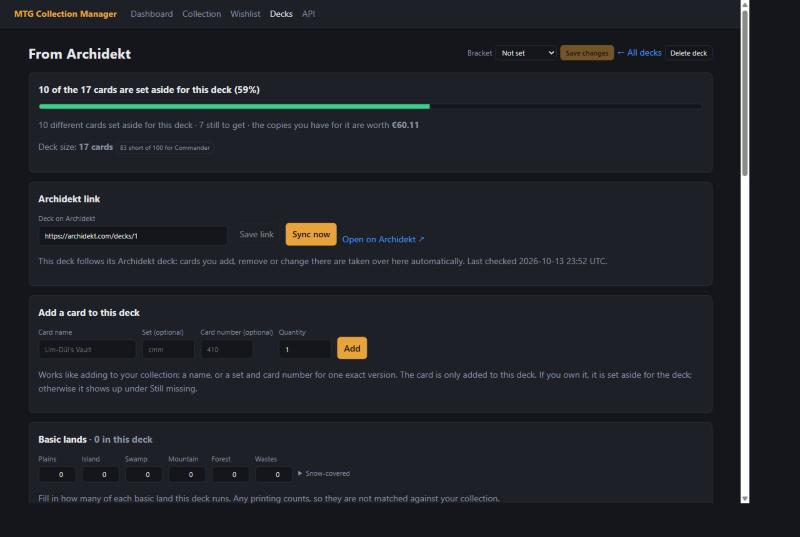
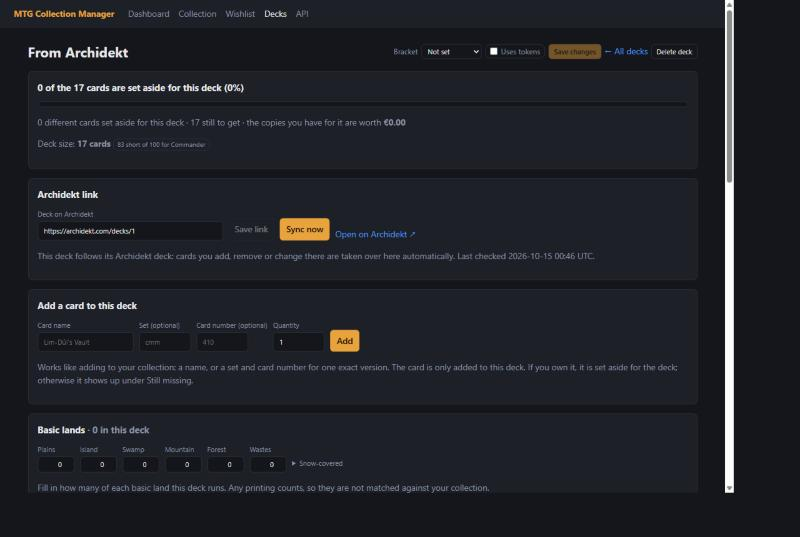
Decks: mark the decks that use tokens
- A "Uses tokens" box on the deck page, saved with the other changes. A
  deck whose list has tokens is marked by itself until you change it.
- The saved decks show a "tokens" badge and can be filtered on it.
- API: PUT /api/decks/{id}/tokens; the deck list says whether a deck uses
  tokens and how many its list has.
- README screenshots updated.

diff --git a/app/templates/deck.html b/app/templates/deck.html
@@ -59,6 +59,9 @@
         {% endfor %}
       </select>
     </label>
+    <input type="hidden" name="tokens_shown" value="1" form="deck-form">
+    <label class="token-toggle {{ 'on' if uses_tokens }}" title="Tick when this deck makes tokens, so you know to bring them">
+      <input type="checkbox" name="uses_tokens" form="deck-form" {{ 'checked' if uses_tokens }}>Uses tokens</label>
     <button form="deck-form" class="deck-save small">Save changes</button>
     <a href="/deck">← All decks</a>
     <form class="inline" method="post" action="/decks/{{ deck.id }}/delete" data-confirm="Click again to delete">
@@ -85,6 +88,7 @@
       {% if summaries | selectattr('deck.bracket', 'none') | list %}<option value="none">No bracket</option>{% endif %}
     </select>
     <label class="check muted"><input id="deck-complete-filter" type="checkbox">&nbsp;Only complete decks</label>
+    <label class="check muted"><input id="deck-tokens-filter" type="checkbox">&nbsp;Only decks with tokens</label>
     <span id="deck-filter-count" class="muted"></span>
   </div>
   <div class="toolbar search-bar color-bar">
@@ -108,10 +112,12 @@
         data-order="{{ loop.index }}" data-name="{{ s.deck.name }}" data-bracket-number="{{ s.deck.bracket or '' }}"
         data-cards="{{ s.total_cards }}" data-percent="{{ s.percent }}" data-value="{{ s.value }}" data-missing="{{ s.needed - s.usable }}"
         data-colors="{{ '?' if s.deck.colors is none else s.deck.colors }}"
-        data-card-names="{{ (card_names | default({})).get(s.deck.id, []) | join('|') }}">
+        data-card-names="{{ (card_names | default({})).get(s.deck.id, []) | join('|') }}"
+        data-tokens="{{ 1 if s.uses_tokens else 0 }}">
       <td><a href="/decks/{{ s.deck.id }}">{{ s.deck.name }}</a>
         {{ pips(s.deck.colors) }}
-        <div class="muted small deck-hit" hidden></div>{% if s.deck.archidekt_id %} <span class="badge linked" title="Follows its deck on Archidekt">↻ Archidekt</span>{% endif %}</td>
+        <div class="muted small deck-hit" hidden></div>{% if s.deck.archidekt_id %} <span class="badge linked" title="Follows its deck on Archidekt">↻ Archidekt</span>{% endif %}
+        {% if s.uses_tokens %}<span class="badge tokens" title="This deck uses tokens{% if s.tokens %}: {{ s.tokens }} in its deck list{% endif %}">● tokens</span>{% endif %}</td>
       <td>{% if s.bracket_name %}<span class="badge bracket">{{ s.deck.bracket }} · {{ s.bracket_name }}</span>{% else %}<span class="muted">–</span>{% endif %}</td>
       <td class="num" title="Cards you have / cards in the deck, basic lands included">{{ s.total_owned }} / {{ s.total_cards }}</td>
       <td style="width: 35%"><div class="progress slim"><div style="width: {{ s.percent }}%"></div></div></td>
@@ -421,6 +427,7 @@
   // Filter the list of saved decks by bracket; the choice is remembered in this browser.
   const bracketFilter = document.getElementById("deck-bracket-filter");
   const completeFilter = document.getElementById("deck-complete-filter");
+  const tokensFilter = document.getElementById("deck-tokens-filter");
   const deckListRows = [...document.querySelectorAll("#deck-list tr[data-bracket]")];
 
   const deckColours = colourFilter("deck", "deck-colors", "exact", () => filterDecks());
@@ -450,6 +457,7 @@
         hit.match &&
         (!bracketFilter.value || row.dataset.bracket === bracketFilter.value) &&
         (!completeFilter.checked || row.dataset.complete === "1") &&
+        (!tokensFilter.checked || row.dataset.tokens === "1") &&
         deckColours.matches(row.dataset.colors);
       row.hidden = !match;
       if (match) shown += 1;
@@ -463,7 +471,7 @@
     if (deckSearch.value.trim()) url.searchParams.set("q", deckSearch.value.trim());
     else url.searchParams.delete("q");
     history.replaceState(null, "", url);
-    const filtered = bracketFilter.value || completeFilter.checked || deckColours.active() || words.length > 0;
+    const filtered = bracketFilter.value || completeFilter.checked || tokensFilter.checked || deckColours.active() || words.length > 0;
     document.getElementById("deck-filter-count").textContent = filtered ? `${shown} of ${deckListRows.length} decks` : "";
     document.getElementById("deck-filter-empty").hidden = shown > 0;
     document.getElementById("deck-list").hidden = shown === 0;
@@ -476,6 +484,7 @@
   } catch (error) {}
   bracketFilter.addEventListener("change", filterDecks);
   completeFilter.addEventListener("change", filterDecks);
+  tokensFilter.addEventListener("change", filterDecks);
   deckSearch.addEventListener("input", filterDecks);
   filterDecks();
 </script>
@@ -566,9 +575,12 @@
   const deckFields = [...document.querySelectorAll('[form="deck-form"][name]:not(button)')];
   // What the server sent, not what the field shows now: a browser may restore edited values on reload.
   const storedValue = (field) =>
-    field.tagName === "SELECT"
+    field.type === "checkbox"
+      ? String(field.defaultChecked)
+      : field.tagName === "SELECT"
       ? ([...field.options].find((option) => option.defaultSelected) ?? field.options[0]).value
       : field.defaultValue;
+  const currentValue = (field) => (field.type === "checkbox" ? String(field.checked) : field.value);
   const stored = new Map(deckFields.map((field) => [field, storedValue(field)]));
   const saveButtons = document.querySelectorAll('button[form="deck-form"]:not([name])');
   const unsavedBar = document.getElementById("unsaved-bar");
@@ -576,8 +588,9 @@
   function markUnsaved() {
     let dirty = false;
     for (const field of deckFields) {
-      const changed = field.value !== stored.get(field);
-      field.classList.toggle("changed", changed);
+      const changed = currentValue(field) !== stored.get(field);
+      (field.type === "checkbox" ? field.closest("label") : field).classList.toggle("changed", changed);
+      if (field.type === "checkbox") field.closest("label").classList.toggle("on", field.checked);
       dirty = dirty || changed;
     }
     for (const button of saveButtons) button.disabled = !dirty;

diff --git a/app/static/style.css b/app/static/style.css
@@ -203,6 +203,12 @@ button.link:disabled { color: var(--muted); cursor: default; text-decoration: no
 [hidden] { display: none !important; }
 
 /* Collection: foil checkbox next to the card name */
+.token-toggle { display: inline-flex; align-items: center; gap: 4px; padding: 2px 8px; border: 1px solid var(--border);
+  border-radius: 10px; font-size: 12px; color: var(--muted); cursor: pointer; }
+.token-toggle input { margin: 0; }
+.token-toggle.on { border-color: var(--accent); color: var(--accent); }
+.token-toggle.changed { box-shadow: 0 0 0 2px var(--want); }
+.badge.tokens { border-color: var(--accent); color: var(--accent); }
 .foil-toggle { display: inline-flex; align-items: center; gap: 3px; margin-left: 6px; padding: 0 7px 0 4px; font-size: 11px;
   border: 1px solid var(--border); border-radius: 10px; color: var(--muted); cursor: pointer; white-space: nowrap; }
 .foil-toggle.on { border-color: var(--accent); color: var(--accent); }

diff --git a/app/services/decks.py b/app/services/decks.py
@@ -159,6 +159,12 @@ class DeckSummary:
     usable: int
     value: float = 0.0  # what the copies in this deck are worth
     basic_lands: int = 0
+    tokens: int = 0  # tokens in its deck list (not counted as cards)
+
+    @property
+    def uses_tokens(self) -> bool:
+        """As you set it on the deck, or else: its deck list has tokens."""
+        return self.deck.uses_tokens if self.deck.uses_tokens is not None else self.tokens > 0
 
     @property
     def bracket_name(self) -> str | None:
@@ -1077,6 +1083,13 @@ def move_basic_lands_out(session: Session, deck: Deck) -> int:
     return moved
 
 
+def set_uses_tokens(session: Session, deck: Deck, uses_tokens: bool | None) -> None:
+    """Mark a deck as one that uses tokens (or not); None goes back to what its deck list says."""
+    deck.uses_tokens = uses_tokens
+    session.add(deck)
+    session.flush()
+
+
 def set_bracket(session: Session, deck: Deck, bracket: int | None) -> None:
     if bracket is not None and bracket not in BRACKETS:
         raise DeckError("A bracket is a number from 1 to 5")
@@ -1121,6 +1134,9 @@ def deck_summaries(session: Session) -> list[DeckSummary]:
     basics: dict[int, int] = {}
     for row in session.exec(select(DeckBasicLand)):
         basics[row.deck_id] = basics.get(row.deck_id, 0) + row.quantity
+    tokens: dict[int, int] = {}
+    for row in session.exec(select(DeckSkipped).where(DeckSkipped.kind == TOKEN)):
+        tokens[row.deck_id] = tokens.get(row.deck_id, 0) + row.quantity
     summaries = []
     for deck in pool.decks:
         rows = pool.rows(deck_id=deck.id)
@@ -1131,6 +1147,7 @@ def deck_summaries(session: Session) -> list[DeckSummary]:
                 usable=sum(row.usable for row in rows),
                 value=round(sum(row.value for row in rows), 2),
                 basic_lands=basics.get(deck.id, 0),
+                tokens=tokens.get(deck.id, 0),
             )
         )
     return summaries

diff --git a/tests/test_api.py b/tests/test_api.py
@@ -527,3 +527,30 @@ def test_collection_groups_versions_and_lists_spare_copies(client):
     spare = sorted((i["card"]["name"], i["card"]["set_code"], i["spare"]) for i in items)
     # The deck uses one Sol Ring (the cheapest) and Fire // Ice; everything else is spare.
     assert spare == [("Lim-Dûl's Vault", "all", 1), ("Sol Ring", "cmm", 2), ("Sol Ring", "lea", 1)]
+
+
+def test_mark_a_deck_as_using_tokens(client):
+    with_tokens = client.post("/api/decks", json={"name": "Rabbits", "decklist": "1 Sol Ring\n3 Treasure Token"}).json()
+    plain = client.post("/api/decks", json={"name": "Plain", "decklist": "1 Sol Ring"}).json()
+
+    def tokens():
+        return {d["name"]: (d["uses_tokens"], d["token_count"]) for d in client.get("/api/decks").json()}
+
+    # A deck whose list has tokens uses them, until you say otherwise.
+    assert tokens() == {"Rabbits": (True, 3), "Plain": (False, 0)}
+    client.put(f"/api/decks/{plain['id']}/tokens", json={"uses_tokens": True})
+    client.put(f"/api/decks/{with_tokens['id']}/tokens", json={"uses_tokens": False})
+    assert tokens() == {"Rabbits": (False, 3), "Plain": (True, 0)}
+    client.put(f"/api/decks/{with_tokens['id']}/tokens", json={"uses_tokens": None})
+    assert tokens()["Rabbits"] == (True, 3)
+
+    # The "Uses tokens" box on the deck page is saved with the other changes.
+    client.post(f"/decks/{plain['id']}/save", data={"tokens_shown": "1"})  # unticked
+    assert tokens()["Plain"] == (False, 0)
+    client.post(f"/decks/{plain['id']}/save", data={"tokens_shown": "1", "uses_tokens": "on"})
+    assert tokens()["Plain"] == (True, 0)
+    page = client.get(f"/decks/{plain['id']}").text
+    assert 'name="uses_tokens" form="deck-form" checked' in page
+
+    overview = client.get("/deck").text
+    assert overview.count("● tokens</span>") == 2 and 'id="deck-tokens-filter"' in overview

diff --git a/app/routers/pages.py b/app/routers/pages.py
@@ -466,7 +466,8 @@ def saved_deck_page(deck_id: int, request: Request, session: Session = Depends(g
     deck = session.get(Deck, deck_id)
     if deck is None:
         raise HTTPException(status_code=404, detail="Deck not found")
-    return render(request, "deck.html", rows=decks.saved_deck_rows(session, deck), deck=deck,
+    summary = next(s for s in decks.deck_summaries(session) if s.deck.id == deck.id)
+    return render(request, "deck.html", rows=decks.saved_deck_rows(session, deck), deck=deck, uses_tokens=summary.uses_tokens,
                   summaries=decks.deck_summaries(session), left_out=decks.deck_left_out(session, deck),
                   bracket=deck.bracket, brackets=decks.BRACKETS, basic_names=decks.BASIC_LAND_NAMES,
                   tracked_basics=decks.tracked_basic_lands(session, deck), deck_link=decks.deck_url(deck))
@@ -526,6 +527,8 @@ async def saved_deck_save(deck_id: int, request: Request, session: Session = Dep
             {key.removeprefix("basic:"): value for key, value in form.items() if key.startswith("basic:")},
             printings,
         )
+        if "tokens_shown" in form:  # an unticked box is not sent at all
+            decks.set_uses_tokens(session, deck, "uses_tokens" in form)
         # The "Remove" / "Put back" buttons submit the same form, so pending edits are saved along.
         message = "Changes saved"
         # A new Archidekt link: follow it from now on and take over that deck right away.

diff --git a/app/routers/api.py b/app/routers/api.py
@@ -29,6 +29,7 @@ from app.schemas import (
     DeckPrintingIn,
     DeckSaveIn,
     DeckSyncOut,
+    DeckTokensIn,
     DeckNeedOut,
     DeckUseOut,
     ImportOut,
@@ -347,6 +348,7 @@ def _deck_out(summary: decks.DeckSummary) -> DeckOut:
         bracket=summary.deck.bracket, bracket_name=summary.bracket_name, basic_land_count=summary.basic_lands,
         deck_size=summary.total_cards, deck_owned=summary.total_owned,
         archidekt_url=decks.deck_url(summary.deck), synced_at=summary.deck.synced_at, colors=summary.deck.colors,
+        uses_tokens=summary.uses_tokens, token_count=summary.tokens,
     )
 
 
@@ -500,6 +502,15 @@ def let_app_sort(entry_id: int | None = None, session: Session = Depends(get_ses
     released = decks.let_app_sort(session, entry_id)
     session.commit()
     return {"released": released}
+
+
+@router.put("/decks/{deck_id}/tokens", response_model=DeckDetailOut)
+def set_uses_tokens(deck_id: int, payload: DeckTokensIn, session: Session = Depends(get_session)):
+    """Mark a deck as one that uses tokens, or not; null goes back to what its deck list says."""
+    deck = _saved_deck(session, deck_id)
+    decks.set_uses_tokens(session, deck, payload.uses_tokens)
+    session.commit()
+    return _deck_detail(session, deck)
 
 
 @router.put("/decks/{deck_id}/basic-lands", response_model=DeckDetailOut)

diff --git a/app/schemas.py b/app/schemas.py
@@ -203,6 +203,11 @@ class DeckAssignedIn(BaseModel):
     assigned: bool
 
 
+class DeckTokensIn(BaseModel):
+    # True or false, or null to follow the deck list (it uses tokens when it has any).
+    uses_tokens: bool | None = None
+
+
 class DeckPrintingIn(BaseModel):
     # A collection entry id, or null to let the app choose again.
     collection_entry_id: int | None = None
@@ -274,6 +279,9 @@ class DeckOut(BaseModel):
     synced_at: dt.datetime | None = None
     # Colour identity of the deck's cards, letters in WUBRG order; null until it is worked out.
     colors: str | None = None
+    # Whether the deck uses tokens (as you set it, or else whether its deck list has any), and how many it lists.
+    uses_tokens: bool = False
+    token_count: int = 0
 
 
 class DeckLinkIn(BaseModel):

diff --git a/app/database.py b/app/database.py
@@ -29,7 +29,7 @@ def add_missing_columns(target=None) -> None:
         "card": {"colors": "VARCHAR"},
         # Before this column existed only an import could tell, so existing cards count as imported.
         "collectionentry": {"imported": "BOOLEAN NOT NULL DEFAULT 1", "unsorted": "INTEGER NOT NULL DEFAULT 0"},
-        "deck": {"bracket": "INTEGER", "archidekt_id": "INTEGER", "synced_at": "DATETIME", "colors": "VARCHAR"},
+        "deck": {"bracket": "INTEGER", "archidekt_id": "INTEGER", "synced_at": "DATETIME", "colors": "VARCHAR", "uses_tokens": "BOOLEAN"},
         "deckentry": {
             "unassigned": "BOOLEAN NOT NULL DEFAULT 0",
             "set_code": "VARCHAR",

diff --git a/app/models.py b/app/models.py
@@ -85,6 +85,8 @@ class Deck(SQLModel, table=True):
     synced_at: dt.datetime | None = None
     # Colour identity of its cards, letters in WUBRG order; None: to be worked out (again).
     colors: str | None = None
+    # Whether the deck uses tokens, as you set it; None: it does when its deck list has tokens.
+    uses_tokens: bool | None = None
 
 
 class DeckEntry(SQLModel, table=True):

diff --git a/README.md b/README.md
@@ -49,13 +49,15 @@ price.
 
 ![Searching the saved decks for a card: every deck that runs Sol Ring, with the matching card under its name](docs/decks-search.jpg)
 
+![Only the decks with tokens: the decks marked "tokens", so you know which ones need tokens at the table](docs/decks-tokens.jpg)
+
 ![The saved decks filtered on bracket 3: two of the six decks are left](docs/decks-filter.jpg)
 
 ![The saved decks filtered on colour: the decks with green in them, each with its colours](docs/decks-colors.jpg)
 
 ![The saved decks sorted on missing cards: the decks closest to done first](docs/decks-sorted.jpg)
 
-![A saved deck of exactly 100 cards: its bracket, deck size, the Archidekt link, adding a card, and basic lands per land](docs/deck.jpg)
+![A saved deck of exactly 100 cards: its bracket, "Uses tokens", deck size, the Archidekt link, adding a card, and basic lands per land](docs/deck.jpg)
 
 ![A deck that follows its Archidekt link: Sync now, and when it was last checked](docs/deck-archidekt.jpg)
 
@@ -121,6 +123,7 @@ price.
 - One "Save changes" button per deck: bracket, basic lands and chosen printings are edited freely and stored together, with a reminder while there are unsaved changes
 - Commander bracket per deck: taken from Archidekt when the deck has one, and changeable at any time
 - Filter the list of saved decks by bracket, or show only the decks that are complete
+- "Uses tokens" on a deck: a deck whose list has tokens is marked by itself, and you can tick or untick it on the deck page. The saved decks show a "tokens" badge and can be filtered on it, so you know which decks need tokens at the table
 - Search the saved decks on deck name or on a card: "arcane signet" lists every deck that runs it, with the matching cards under the deck name
 - Filter the saved decks on colour: every deck shows the colour identity of its cards, and you pick decks with exactly, any of, or within the chosen colours
 - Sort the saved decks by how many cards they still miss, or by name, bracket, size, progress or value
@@ -212,6 +215,7 @@ product page. Two things to know:
 | `POST` | `/api/decks/{id}/cards/{entry_id}/new-copy` | Put a new copy from an import, that waits to be sorted, in this deck |
 | `POST` | `/api/collection/let-app-sort` | Let the app share out the new copies from imports over the decks (`?entry_id=` for one card) |
 | `PUT` | `/api/decks/{id}/basic-lands` | Set how many of each basic land a deck runs |
+| `PUT` | `/api/decks/{id}/tokens` | Mark a deck as one that uses tokens, or not (`null` follows the deck list) |
 | `PUT` | `/api/decks/{id}/bracket` | Set or clear the Commander bracket of a deck |
 | `PUT` | `/api/decks/{id}/archidekt` | Let a deck follow an Archidekt deck, or stop following |
 | `POST` | `/api/decks/{id}/sync`, `/api/decks/sync` | Bring one deck, or every linked deck, up to date with Archidekt |
